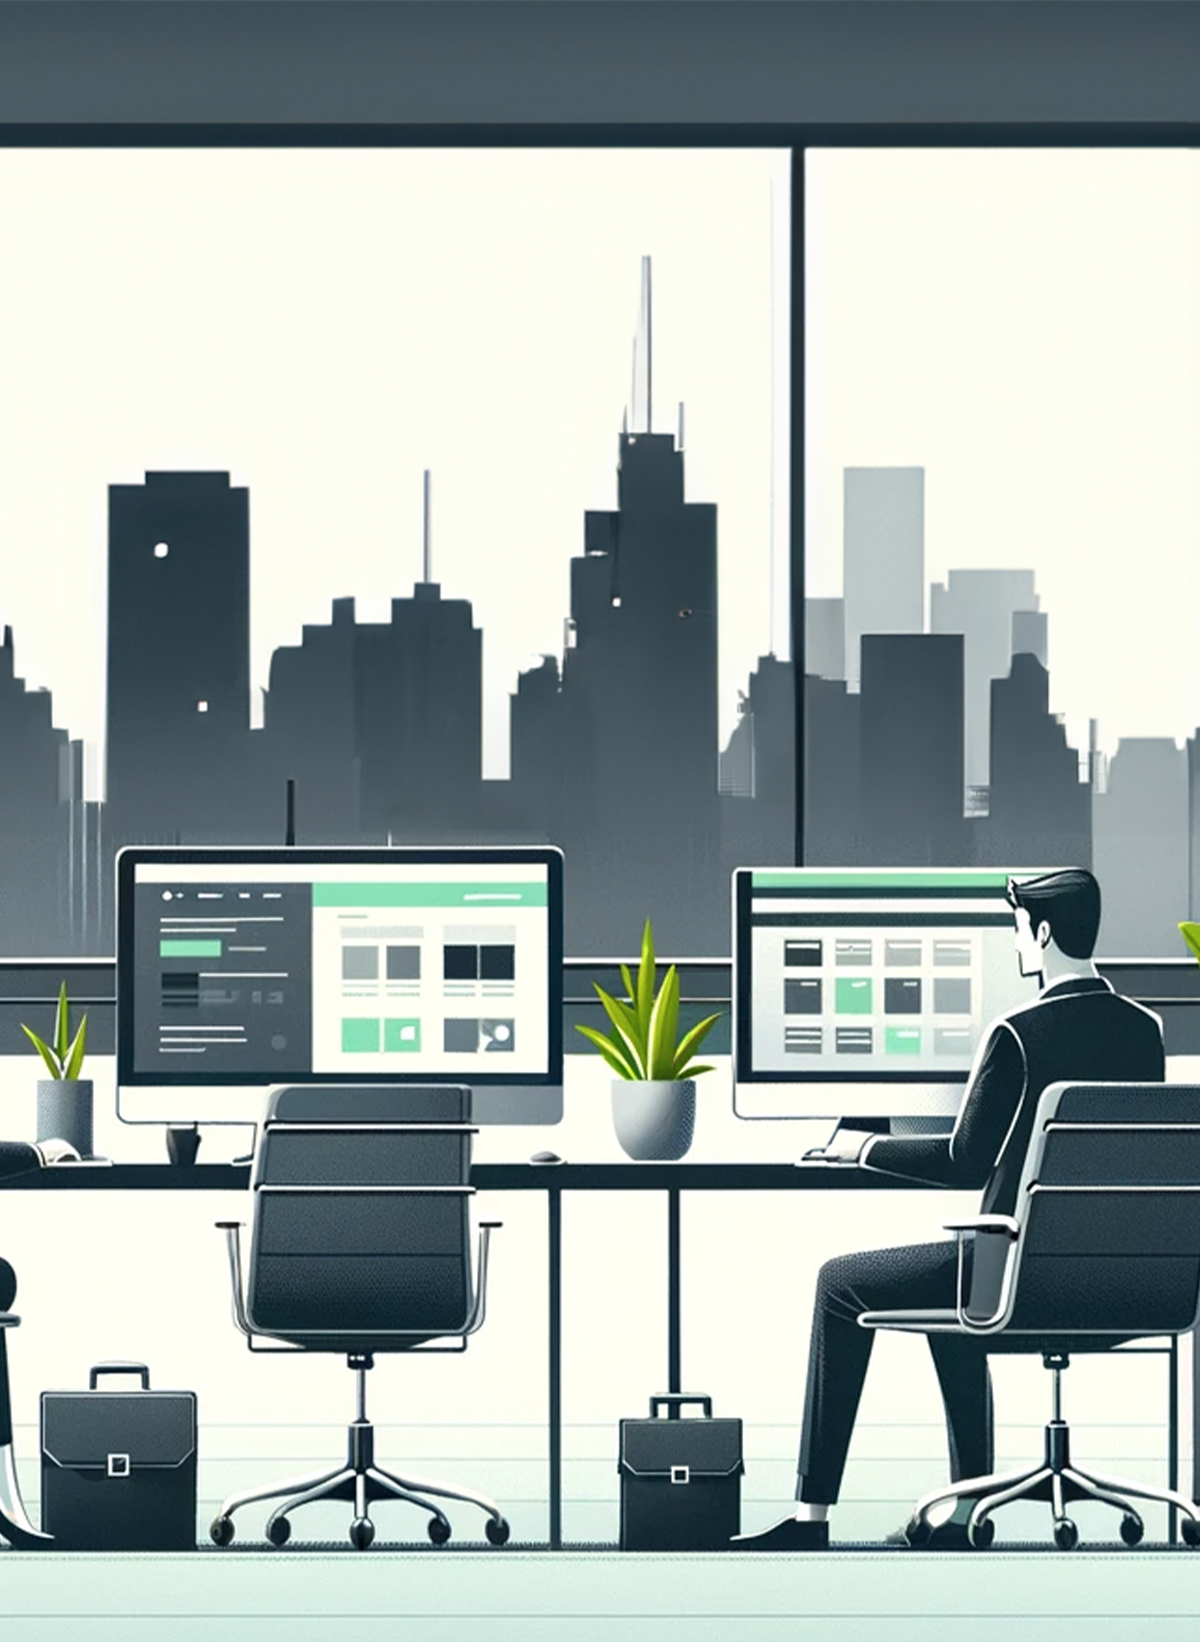
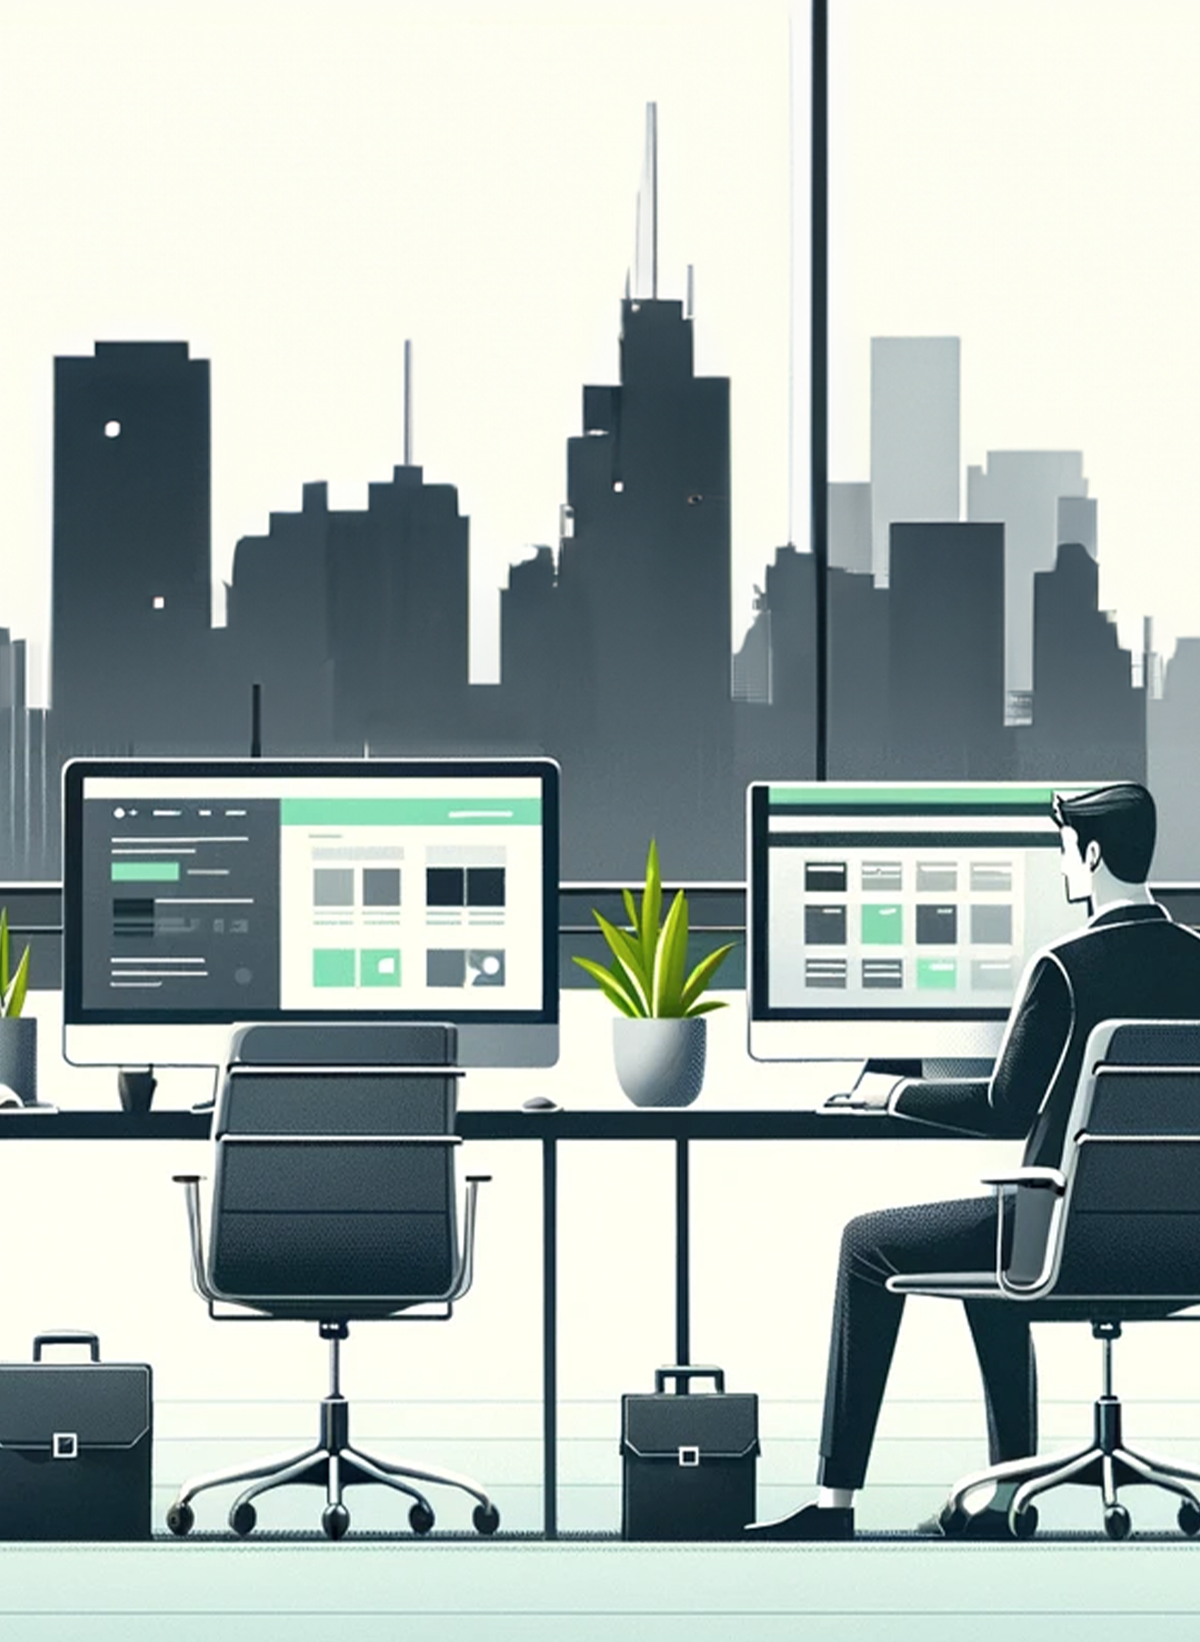
Update finishing landing page

diff --git a/CSS/Page/landingPage.css b/CSS/Page/landingPage.css
@@ -68,7 +68,7 @@
     background-color: #718096;
 }
 .navbar{
-    padding-top: 3em;
+    padding-top: .5em;
     margin: 0;
     min-width: 100%;
     z-index: 999;
@@ -93,66 +93,57 @@
 
 }
 #top-hero-img{
+    overflow: hidden;
     max-width: 100vw;
-    content: url("https://s3.amazonaws.com/rileyg.me/business-website/Images/hero-img/Hero1200.png");
+
+}
+
+@media  (max-width: 575px)  {
+    #top-hero-img{
+        content: url("https://s3.amazonaws.com/rileyg.me/business-website/Images/hero-img/Hero-Mobile.png");
+    }
+
+}
+
+@media (min-width: 576px) and (max-width: 768px)  {
+    #top-hero-img{
+        content: url("https://s3.amazonaws.com/rileyg.me/business-website/Images/hero-img/Hero-Tablet.png");
+    }
+
+}
+
+
+@media (min-width: 768px) and (max-width: 991px)  {
+    #top-hero-img{
+        content: url("https://s3.amazonaws.com/rileyg.me/business-website/Images/hero-img/Hero-Tablet.png");
+    }
+
 }
 
 /*
-@media (max-width: 576px) {
-    .hero-img-wrapper{
-        background-image: url("/Images/hero-img/Hero576.png");
-        min-height: 790px;
+@media (min-width: 992px) and (max-width: 1199px)  {
+    #top-hero-img{
+        content: url("/Images/hero-img/Hero992.png");
     }
-    .hero-container{
-        min-height: 790px;
 
-    }
-}
-@media (max-width: 768px) {
-    .hero-img-wrapper{
-        background-image: url("/Images/hero-img/Hero768.png");
-        min-height: 1050px;
-    }
-    .hero-container{
-        min-height: 1050px;
-
-    }
-}
-@media (max-width: 992px) {
-    .hero-img-wrapper{
-        background-image: url("/Images/hero-img/Hero992.png");
-        min-height: 1358px;
-    }
-    .hero-container{
-        min-height: 1358px;
-
-    }
 }
 
-@media (max-width: 1200px) {
-    .hero-img-wrapper{
-        background-image: url("/Images/hero-img/Hero1200.png");
-        min-height: 1642px;
+@media (min-width: 1200px) and (max-width: 1599px)  {
+    #top-hero-img{
+        content: url("/Images/hero-img/Hero1200.png");
     }
-    .hero-container{
-        min-height: 1642px;
 
-    }
 }
 
-@media (min-width: 1201px) {
-    .hero-img-wrapper{
-        background-image: url("/Images/hero-img/Hero1800.png");
-        min-height: 1642px;
+@media (min-width: 1600px) {
+    #top-hero-img{
+        content: url("/Images/hero-img/Hero1800.png");
     }
-    .hero-container{
-        min-height: 1642px;
 
-    }
 }
+
 
 
 
 
 */
-

diff --git a/landing.html b/landing.html
@@ -418,14 +418,7 @@
   
   <footer>
     <div class="container">
-        <div class="row">
-            <section id="custom_html-6" class="widget_text widget widget_custom_html"><div class="widget_text widget-wrap">
-                <div class="textwidget custom-html-widget"><a class="weatherwidget-io" href="https://forecast7.com/en/42d11n84d21/49230/?unit=us" data-label_1="BROOKLYN" data-label_2="WEATHER" data-theme="original" >BROOKLYN WEATHER</a>
-                    <script>
-                    !function(d,s,id){var js,fjs=d.getElementsByTagName(s)[0];if(!d.getElementById(id)){js=d.createElement(s);js.id=id;js.src='https://weatherwidget.io/js/widget.min.js';fjs.parentNode.insertBefore(js,fjs);}}(document,'script','weatherwidget-io-js');
-                    </script></div></div></section>
-    
-        </div>
+       
         <hr>
 
       <div class="row">

diff --git a/CSS/features.css b/CSS/features.css
@@ -75,13 +75,12 @@ section .box{
         width: 100% !important;
         min-width: 0px !important;
         padding: 1em !important;
-        margin-bottom: 10em;
 
     }
 
     #features .features-content{
         height: 80vh;
-        margin-bottom: -20em;
+        margin-bottom: -10em;
     }
 
     #features .features-content-col{
@@ -90,10 +89,17 @@ section .box{
     #features .features-graph{
         height: 100%!important;
         margin: 0!important;
+        padding-top: 2em;
     }
 
     #features .features-graph .sq-bt-label{
         font-size: unset!important;
+    }
+    #features .features-graph .flash-oval {
+        margin: 15em auto 9em auto!important;
+    }
+    #features .features-graph .icon-features-1, #features .features-graph .icon-features-4{
+        background-position: center!important;
     }
 }
 

diff --git a/CSS/mainStyle.css b/CSS/mainStyle.css
@@ -74,7 +74,11 @@
     overflow-x: hidden;
 }
 
-
+@media (max-width: 768px) {
+    .section{
+        padding: 3rem 15px
+    }
+}
 
 
 
